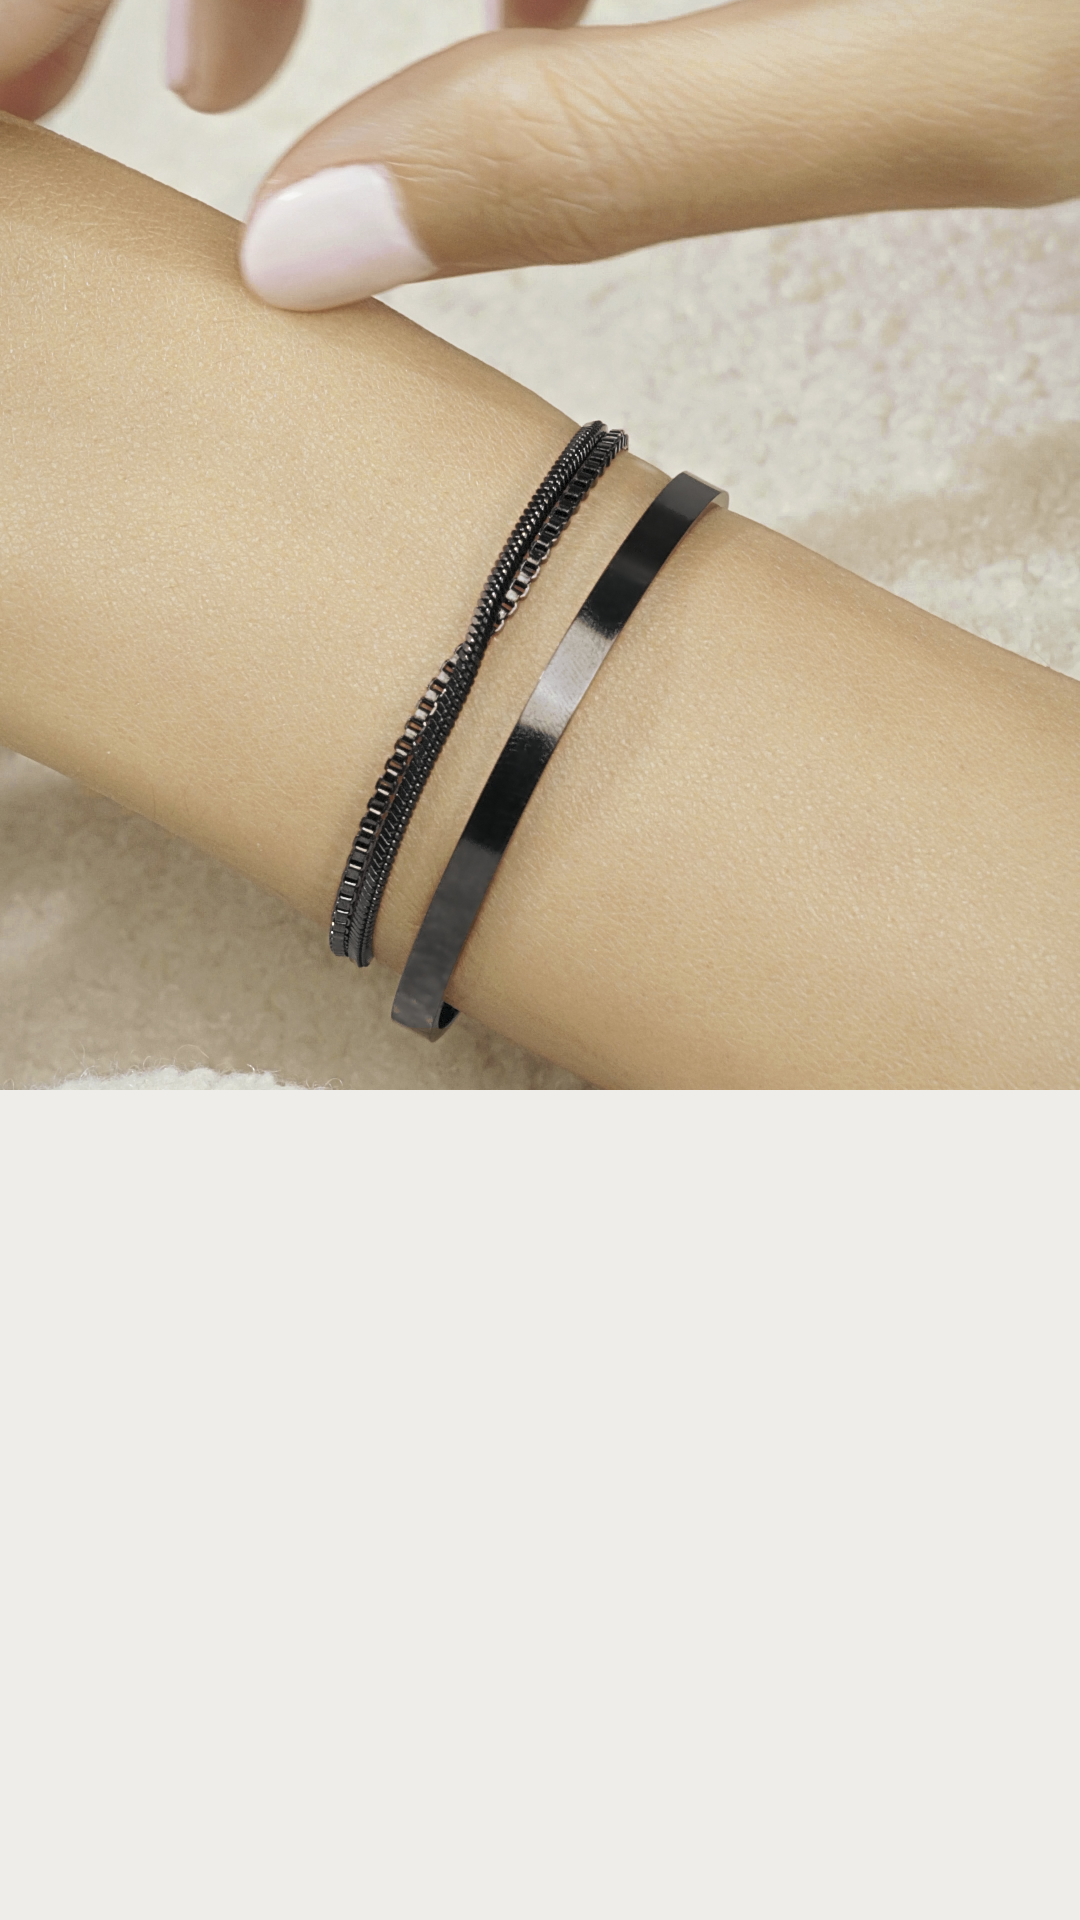
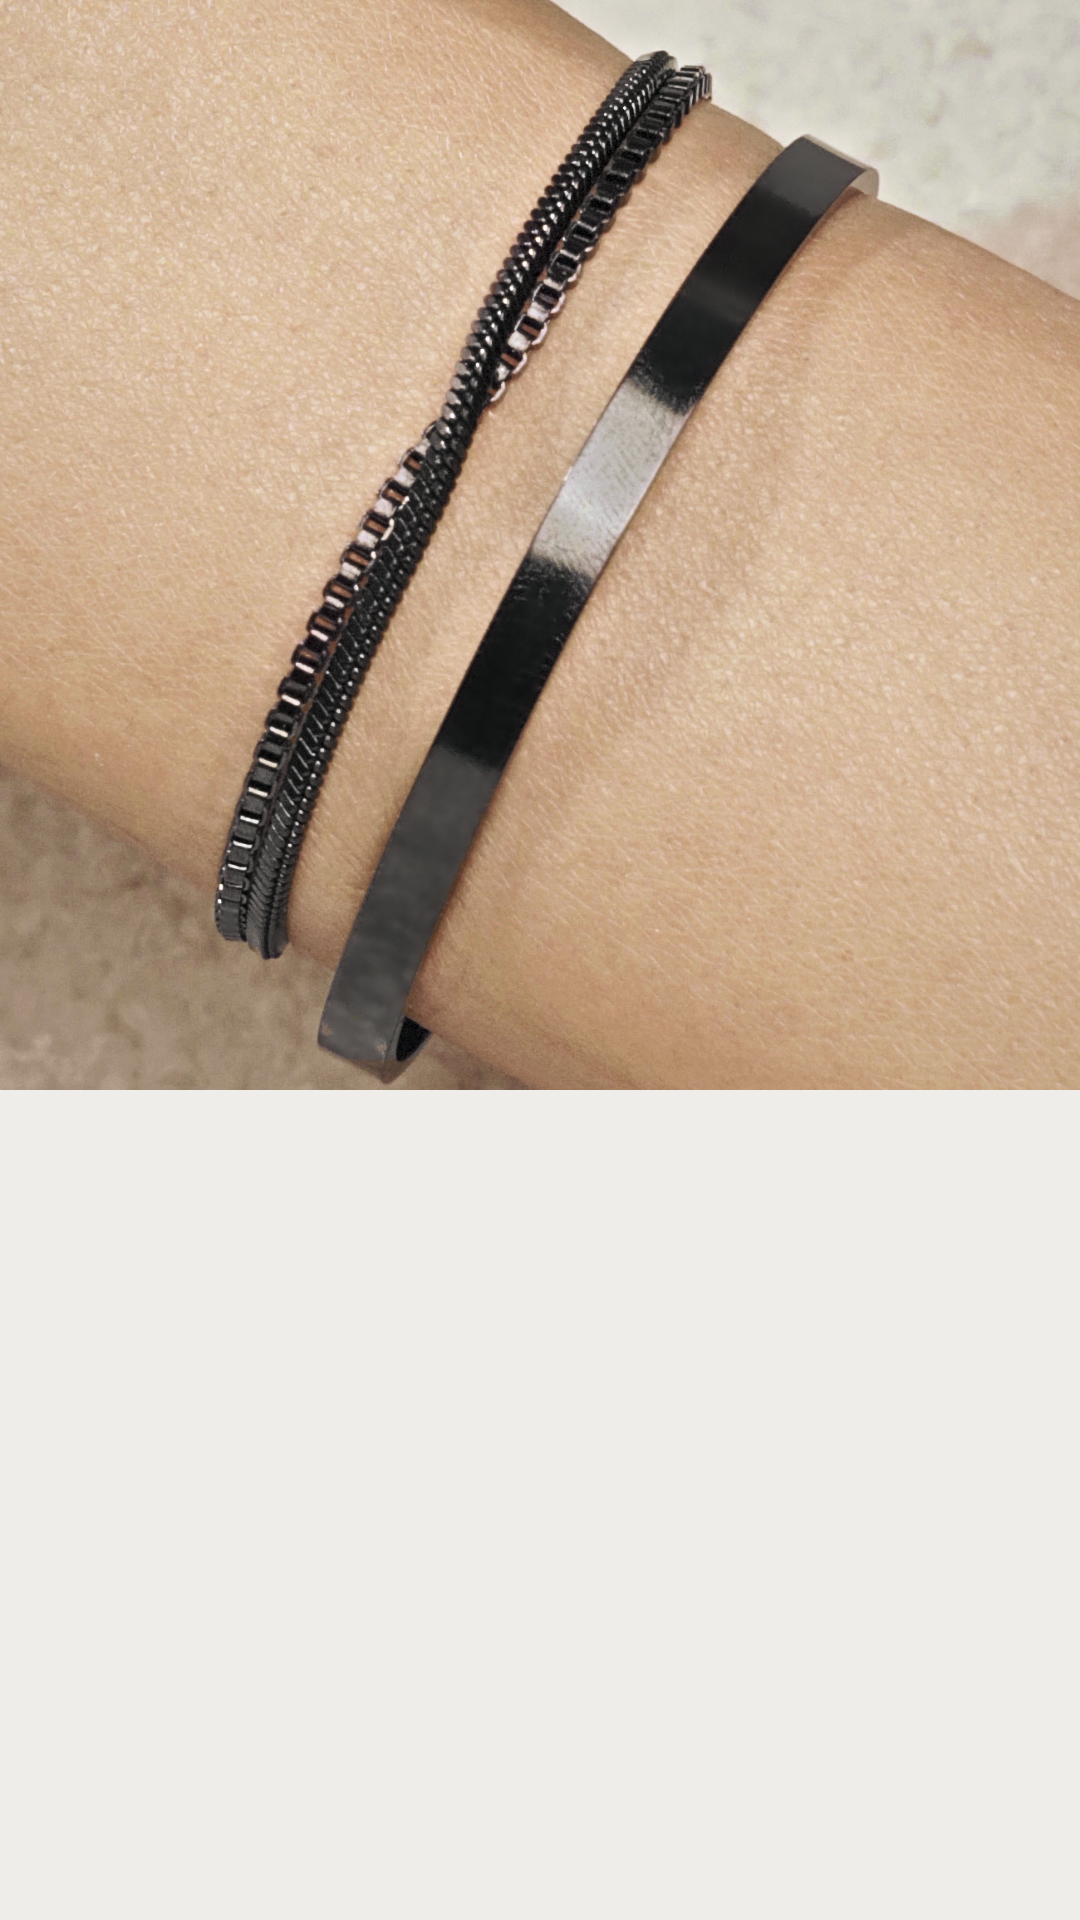
W421 option 2: tight 4K macro crops, natural skin, warm natural skin colour (finish.py); rule updated
Claude-Session: https://claude.ai/code/session_01LtGMNmy7hV4kZNsS3Vsb6Q

diff --git a/bfcm26/canvas/W421-C2.dc.html b/bfcm26/canvas/W421-C2.dc.html
@@ -15,10 +15,10 @@ a{color:#141414}a:hover{color:#000000}
 </style>
 </helmet>
 <div style="width: 1080px; height: 1920px; position: relative; overflow: hidden; background: #E9E6E1; font-family: Figtree, sans-serif; color: #141414">
-<div data-tag="status" style="position: absolute; top: 28px; left: 28px; z-index: 50; display: flex; flex-direction: column; align-items: flex-start; gap: 10px; pointer-events: none"><span style="padding: 12px 20px; background: #8FCBA2; color: #141414; font-family: Figtree, sans-serif; font-size: 28px; font-weight: 600; letter-spacing: 0.1em">CLICKUP ✓ DONE</span><span style="padding: 12px 20px; background: #F4D58A; color: #141414; font-family: Figtree, sans-serif; font-size: 28px; font-weight: 600; letter-spacing: 0.1em">4K · RETOUCHED · FRAME RE-UPLOAD PENDING</span></div>
+<div data-tag="status" style="position: absolute; top: 28px; left: 28px; z-index: 50; display: flex; flex-direction: column; align-items: flex-start; gap: 10px; pointer-events: none"><span style="padding: 12px 20px; background: #8FCBA2; color: #141414; font-family: Figtree, sans-serif; font-size: 28px; font-weight: 600; letter-spacing: 0.1em">CLICKUP ✓ DONE</span><span style="padding: 12px 20px; background: #F4D58A; color: #141414; font-family: Figtree, sans-serif; font-size: 28px; font-weight: 600; letter-spacing: 0.1em">4K MACRO CROP · NATURAL SKIN · FRAME PENDING</span></div>
 
 
-<img src="/_blob/770a5a67c2504daef9fae9bced3e3245" alt="Profile of a woman with her arm across her face, wearing the black 3x Minimal - Stack Set" style="position: absolute; top: -190px; left: -54px; width: 1188px; height: 2112px; object-fit: cover; display: block">
+<img src="/_blob/b258f92bd82204b0ff9d2776a7f35d9d" alt="Profile of a woman with her arm across her face, wearing the black 3x Minimal - Stack Set" style="position: absolute; top: 0; left: 0; width: 1080px; height: 1920px; object-fit: cover; display: block">
 <div style="position: absolute; top: 1260px; left: 80px; width: 920px; display: flex; flex-direction: column; align-items: flex-start; gap: 18px; text-align: left">
 <span style="font-size: 22px; font-weight: 500; letter-spacing: 0.1em; color: #A82C24">BLACK FRIDAY · 30% OFF SITEWIDE</span>
 <h1 style="margin: 0; font-size: 52px; line-height: 1.15; letter-spacing: 0.04em; font-weight: 300; text-transform: uppercase">Made to<br><span style="font-weight: 400">stay on.</span></h1>

diff --git a/bfcm26/canvas/W421-C3.dc.html b/bfcm26/canvas/W421-C3.dc.html
@@ -15,10 +15,10 @@ a{color:#141414}a:hover{color:#000000}
 </style>
 </helmet>
 <div style="width: 1080px; height: 1920px; position: relative; overflow: hidden; background: #E8E2DA; font-family: Figtree, sans-serif; color: #141414">
-<div data-tag="status" style="position: absolute; top: 28px; left: 28px; z-index: 50; display: flex; flex-direction: column; align-items: flex-start; gap: 10px; pointer-events: none"><span style="padding: 12px 20px; background: #8FCBA2; color: #141414; font-family: Figtree, sans-serif; font-size: 28px; font-weight: 600; letter-spacing: 0.1em">CLICKUP ✓ DONE</span><span style="padding: 12px 20px; background: #F4D58A; color: #141414; font-family: Figtree, sans-serif; font-size: 28px; font-weight: 600; letter-spacing: 0.1em">4K · RETOUCHED · FRAME RE-UPLOAD PENDING</span></div>
+<div data-tag="status" style="position: absolute; top: 28px; left: 28px; z-index: 50; display: flex; flex-direction: column; align-items: flex-start; gap: 10px; pointer-events: none"><span style="padding: 12px 20px; background: #8FCBA2; color: #141414; font-family: Figtree, sans-serif; font-size: 28px; font-weight: 600; letter-spacing: 0.1em">CLICKUP ✓ DONE</span><span style="padding: 12px 20px; background: #F4D58A; color: #141414; font-family: Figtree, sans-serif; font-size: 28px; font-weight: 600; letter-spacing: 0.1em">4K MACRO CROP · NATURAL SKIN · FRAME PENDING</span></div>
 
 
-<img src="/_blob/f1b1fc0d12defe065f1513b47d36f660" alt="Fingers resting on a sun-kissed wrist wearing the black 3x Minimal - Stack Set" style="position: absolute; top: 0; left: 0; width: 1080px; height: 1920px; object-fit: cover; display: block">
+<img src="/_blob/6f8ab6597003da44d5dd1b5631ddc768" alt="Fingers resting on a sun-kissed wrist wearing the black 3x Minimal - Stack Set" style="position: absolute; top: 0; left: 0; width: 1080px; height: 1920px; object-fit: cover; display: block">
 <div style="position: absolute; top: 1260px; left: 80px; width: 920px; display: flex; flex-direction: column; align-items: flex-start; gap: 18px; text-align: left">
 <span style="font-size: 22px; font-weight: 500; letter-spacing: 0.1em; color: #A82C24">BLACK FRIDAY · 30% OFF SITEWIDE</span>
 <h1 style="margin: 0; font-size: 52px; line-height: 1.15; letter-spacing: 0.04em; font-weight: 300; text-transform: uppercase">No code needed.<br><span style="font-weight: 400">Just 30% off.</span></h1>

diff --git a/bfcm26/canvas/W421-C1.dc.html b/bfcm26/canvas/W421-C1.dc.html
@@ -15,10 +15,10 @@ a{color:#141414}a:hover{color:#000000}
 </style>
 </helmet>
 <div style="width: 1080px; height: 1920px; position: relative; overflow: hidden; background: #EFEDEA; font-family: Figtree, sans-serif; color: #141414">
-<div data-tag="status" style="position: absolute; top: 28px; left: 28px; z-index: 50; display: flex; flex-direction: column; align-items: flex-start; gap: 10px; pointer-events: none"><span style="padding: 12px 20px; background: #8FCBA2; color: #141414; font-family: Figtree, sans-serif; font-size: 28px; font-weight: 600; letter-spacing: 0.1em">CLICKUP ✓ DONE</span><span style="padding: 12px 20px; background: #F4D58A; color: #141414; font-family: Figtree, sans-serif; font-size: 28px; font-weight: 600; letter-spacing: 0.1em">4K · RETOUCHED · FRAME RE-UPLOAD PENDING</span></div>
+<div data-tag="status" style="position: absolute; top: 28px; left: 28px; z-index: 50; display: flex; flex-direction: column; align-items: flex-start; gap: 10px; pointer-events: none"><span style="padding: 12px 20px; background: #8FCBA2; color: #141414; font-family: Figtree, sans-serif; font-size: 28px; font-weight: 600; letter-spacing: 0.1em">CLICKUP ✓ DONE</span><span style="padding: 12px 20px; background: #F4D58A; color: #141414; font-family: Figtree, sans-serif; font-size: 28px; font-weight: 600; letter-spacing: 0.1em">4K MACRO CROP · NATURAL SKIN · FRAME PENDING</span></div>
 
 
-<img src="/_blob/d3b6e065764921d048f1f7c32419a534" alt="Fingertips touching the black 3x Minimal - Stack Set on a sun-kissed wrist, white bouclé behind" style="position: absolute; top: 0; left: 0; width: 1080px; height: 1090px; object-fit: cover; object-position: 50% 40%; display: block">
+<img src="/_blob/971f8702602806211623b7d48ef24af6" alt="Fingertips touching the black 3x Minimal - Stack Set on a sun-kissed wrist, white bouclé behind" style="position: absolute; top: 0; left: 0; width: 1080px; height: 1090px; object-fit: cover; object-position: 50% 50%; display: block">
 <div style="position: absolute; top: 1125px; left: 0; width: 1080px; display: flex; flex-direction: column; align-items: center; gap: 18px; text-align: center">
 <img src="/_blob/b5d78a878b48e10609c923597dd1852e" alt="Cavaier" style="width: 110px; height: auto; display: block">
 <span style="font-size: 22px; font-weight: 500; letter-spacing: 0.1em; color: #A82C24">BLACK FRIDAY · 30% OFF SITEWIDE</span>

diff --git a/bfcm26/video-ad/finish.py b/bfcm26/video-ad/finish.py
@@ -1,0 +1,34 @@
+# Option-2 finish for stills cut from video: natural warm skin, light falloff toward the jewelry, tight 1:1 crop.
+# usage: finish.py in16.png out.jpg cx,cy crop_w,crop_h out_w,out_h
+#   in16.png : retouch.py output with RETOUCH_SKIN=0 RETOUCH_NR=0 (skin left 100% natural, jewelry pass on)
+#   cx,cy    : jewelry centre (4K px); the light falls off away from it
+#   crop_w,h : crop box in 4K px (keep it >= out size so no upscaling)
+import sys, subprocess, numpy as np, cv2
+from PIL import Image
+src, out = sys.argv[1:3]
+cx, cy = map(int, sys.argv[3].split(',')); cw, ch = map(int, sys.argv[4].split(',')); ow, oh = map(int, sys.argv[5].split(','))
+b = subprocess.run(['ffmpeg', '-v', 'error', '-i', src, '-f', 'rawvideo', '-pix_fmt', 'rgb48le', '-'], capture_output=True, check=True).stdout
+im = np.frombuffer(b, np.uint16).reshape(3840, 2160, 3).astype(np.float32) / 65535
+H, W = im.shape[:2]
+lab = cv2.cvtColor(im, cv2.COLOR_RGB2Lab)
+L, a, bb = lab[..., 0], lab[..., 1], lab[..., 2]
+hue = np.degrees(np.arctan2(bb, a)); chroma = np.hypot(a, bb)
+skin = ((hue > 50) & (hue < 95) & (chroma > 11) & (chroma < 50) & (L > 25) & (L < 95)).astype(np.uint8)
+skin = cv2.morphologyEx(skin, cv2.MORPH_CLOSE, np.ones((31, 31), np.uint8))
+skin = np.clip(cv2.GaussianBlur(skin.astype(np.float32), (0, 0), 12), 0, 1)
+# 1. natural warm skin (pro reference sits near a 12 / b 17; video grade was a 2 / b 20 = yellow, waxy)
+a += skin * 0.6 * (10.0 - np.median(a[skin > 0.5]))
+bb += skin * 0.6 * (17.0 - np.median(bb[skin > 0.5]))
+# 2. light falloff: brightest on the jewelry, gently darker toward the edges (directional, 3D feel)
+yy, xx = np.mgrid[0:H, 0:W].astype(np.float32)
+d = np.hypot((xx - cx) / 1100, (yy - cy) / 1500)
+L *= 1 - 0.16 * np.clip(d - 0.35, 0, 1) ** 1.4
+# 3. micro-contrast on midtones (crisp, not crunchy)
+mid = np.exp(-((L - 60) / 30) ** 2)
+L += 0.22 * mid * (L - cv2.GaussianBlur(L, (0, 0), 30))
+lab[..., 0], lab[..., 1], lab[..., 2] = L, a, bb
+rgb = np.clip(cv2.cvtColor(lab, cv2.COLOR_Lab2RGB), 0, 1)
+x0 = int(np.clip(cx - cw / 2, 0, W - cw)); y0 = int(np.clip(cy - ch / 2, 0, H - ch))
+crop = (rgb[y0:y0 + ch, x0:x0 + cw] * 255 + 0.5).astype(np.uint8)
+Image.fromarray(crop).resize((ow, oh), Image.LANCZOS).save(out, quality=95, subsampling=0)
+print('ok', out, (x0, y0, cw, ch))

diff --git a/CLAUDE.md b/CLAUDE.md
@@ -48,10 +48,13 @@ Before making any new batch, always ask Eli which method to use, with one short 
   2. Score every frame in a window of about ±0.5 s for sharpness and take the sharpest one, with no motion blur on the links.
   3. Export it as a 16-bit PNG and apply the same grade as the video (tan rule).
   4. Upscale with an AI upscaler only if the crop is smaller than its slot.
-  5. Pro retouch, always (`bfcm26/video-ad/retouch.py`, jewelry box per image):
-     - Lightroom develop: chroma noise reduction, highlights/shadows, texture and clarity, a gentle S-curve, a subtle vignette and fine grain.
-     - Photoshop skin: hue unify, frequency separation (pores kept), dodge & burn of blotches, blemish and mole inpaint.
-     - Jewelry precision pass: neutral black metal, polished cuff cleaned (scratches, dust and fingerprints inpainted), every chain link sharpened without halos, deeper blacks and real speculars, a thin contact shadow.
+  5. Finish like a macro photo (Eli, W421):
+     - Crop tight on the jewelry at 1:1 (never upscale).
+     - Skin stays 100% natural: no smoothing or noise removal, pores and hairs kept (`RETOUCH_SKIN=0 RETOUCH_NR=0 retouch.py`, jewelry precision pass on).
+     - Natural warm skin colour, not the yellow tan (`finish.py`, Lab a≈10 / b≈17).
+     - Light falloff toward the jewelry.
+     - Keep key text clear of the jewelry.
+     - Real pro photos still beat video stills; tell Eli when a batch needs them.
   6. Check it at 100%: links crisp with no halos, skin texture real (not plastic), no invented detail. Tune the pass if anything is overdone.
 - For the delivery upload, use the Frame.io API flow under **Delivery**. The RAW footage is read through the public share in a headless browser (FRAME_METHOD.md §4).
 
